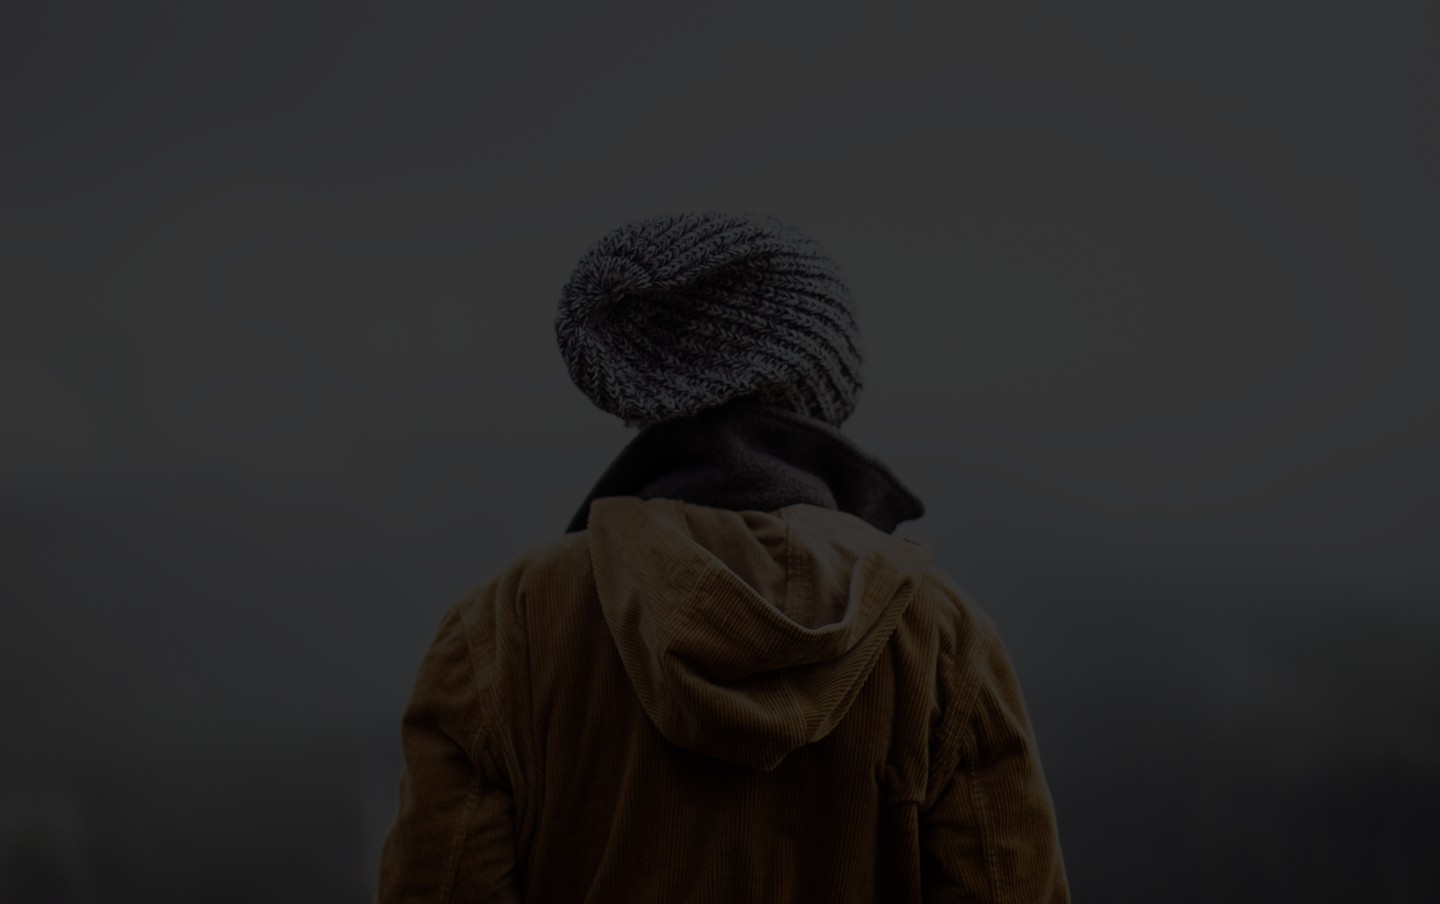
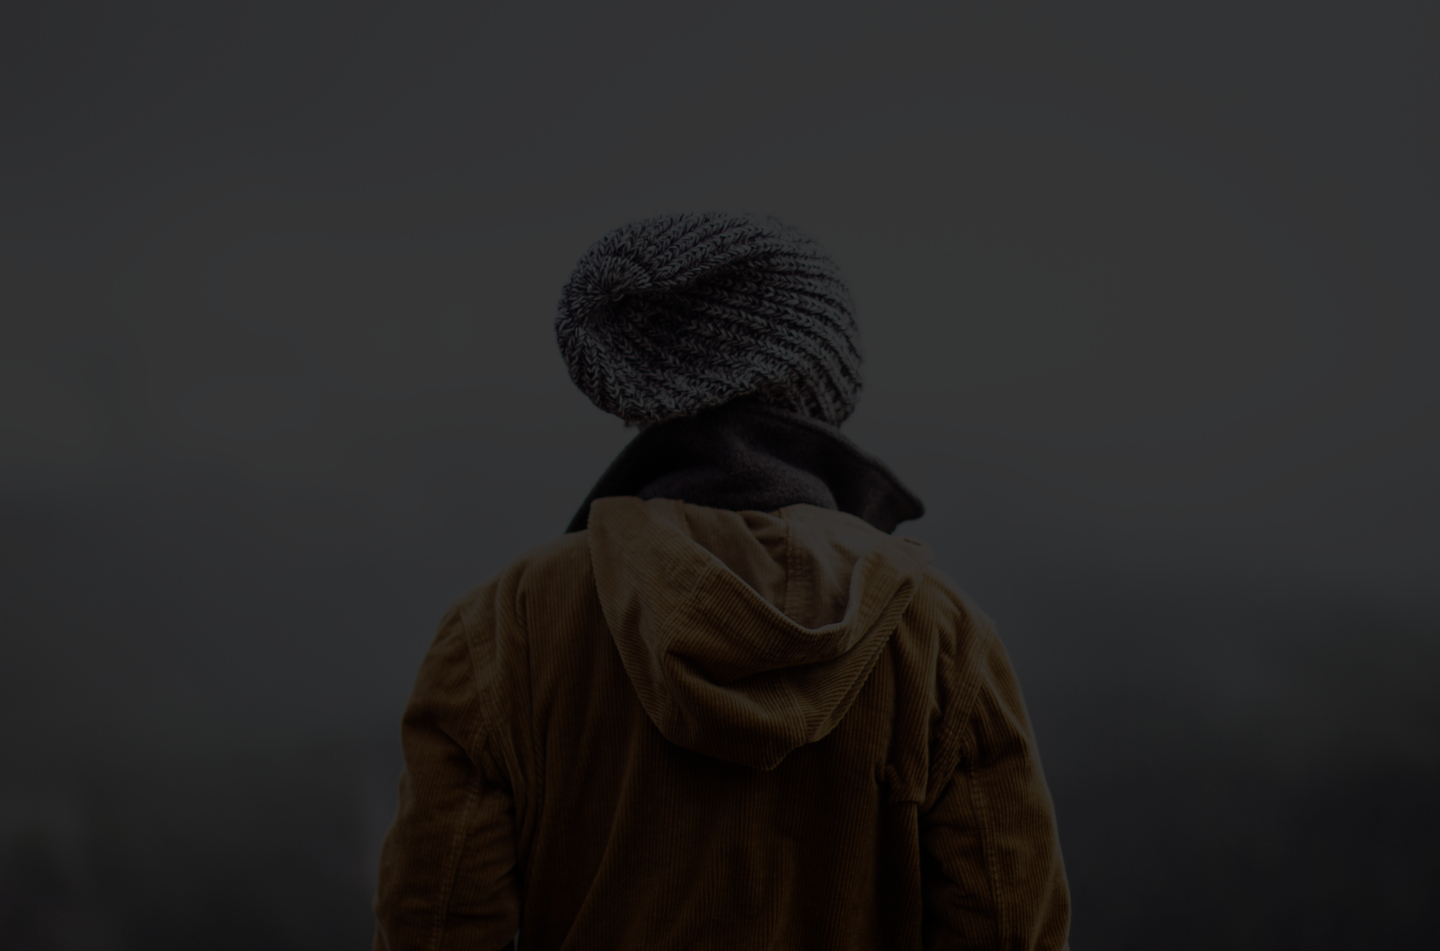
grunt tasks and full quality home images"

diff --git a/Gruntfile.js b/Gruntfile.js
@@ -7,13 +7,18 @@
 // use this if you want to recursively match all subfolders:
 // 'test/spec/**/*.js'
 
+
 module.exports = function (grunt) {
+
+
 
   // Load grunt tasks automatically
   require('load-grunt-tasks')(grunt);
 
   // Time how long tasks take. Can help when optimizing build times
   require('time-grunt')(grunt);
+
+ var mozjpeg = require('imagemin-mozjpeg');
 
   // Configurable paths for the application
   var appConfig = {
@@ -28,6 +33,27 @@ module.exports = function (grunt) {
 
     // Project settings
     yeoman: appConfig,
+
+    //SSH Deploy
+    environments: {
+
+      options: {
+        local_path: 'dist'
+      },
+
+      production: {
+        options: {
+          current_symlink: 'html',
+          deploy_path: '/var/www',
+          host: 'saraya.me',
+          username: 'root',
+          password: 'hossam11',
+          debug: true,
+          number_of_releases: '3',
+          before_deploy: 'rm -rf /var/www/html'
+        }
+      }
+    },
 
     // Watches files for changes and runs tasks based on the changed files
     watch: {
@@ -305,16 +331,18 @@ module.exports = function (grunt) {
     // },
 
     imagemin: {
+      options: {
+        use: [mozjpeg()]
+      },
       dist: {
         files: [{
-          //expand: true,
-          //cwd: '<%= yeoman.app %>/images',
-          //src: '{,*/}*.{png,jpg,jpeg,gif}',
-          //dest: '<%= yeoman.dist %>/images'
+          expand: true,
+          cwd: '<%= yeoman.app %>/images',
+          src: '{,*/}*.{png,jpg,jpeg,gif}',
+          dest: '<%= yeoman.dist %>/images',
         }]
       }
     },
-
     svgmin: {
       dist: {
         files: [{
@@ -325,7 +353,6 @@ module.exports = function (grunt) {
         }]
       }
     },
-
     htmlmin: {
       dist: {
         options: {
@@ -356,7 +383,6 @@ module.exports = function (grunt) {
         }]
       }
     },
-
     // Replace Google CDN references
     cdnify: {
       dist: {
@@ -495,12 +521,13 @@ module.exports = function (grunt) {
   ]);
 
   grunt.registerTask('deploy',[
-    'copy:production'
+    'build',
+    'ssh_deploy:production'
   ]);
 
   grunt.registerTask('default', [
     'newer:jshint',
-    'test',
+    //'test',
     'build'
   ]);
 };
